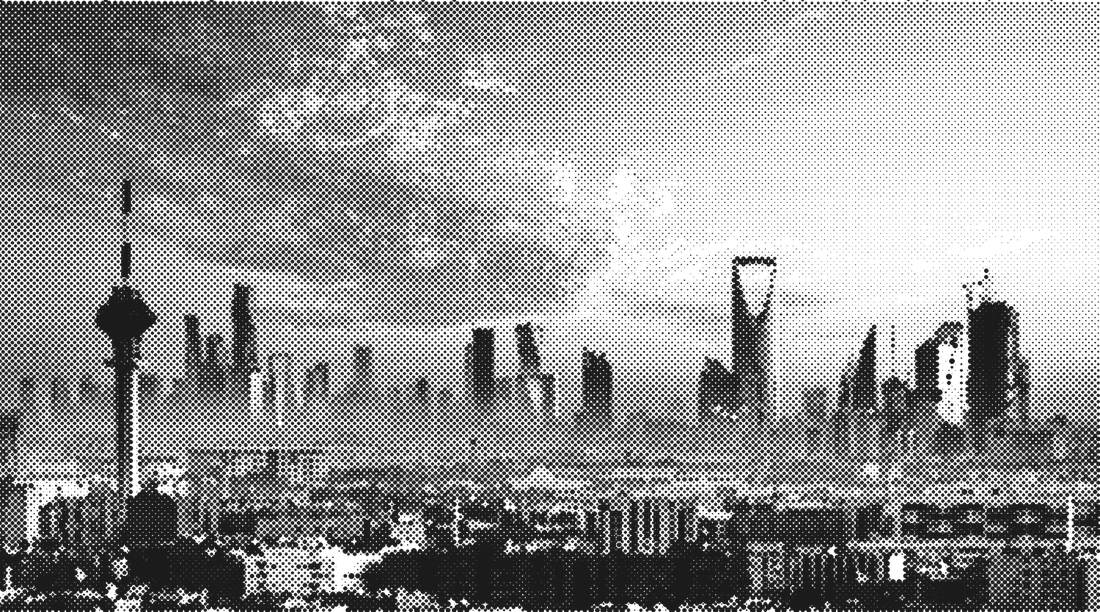
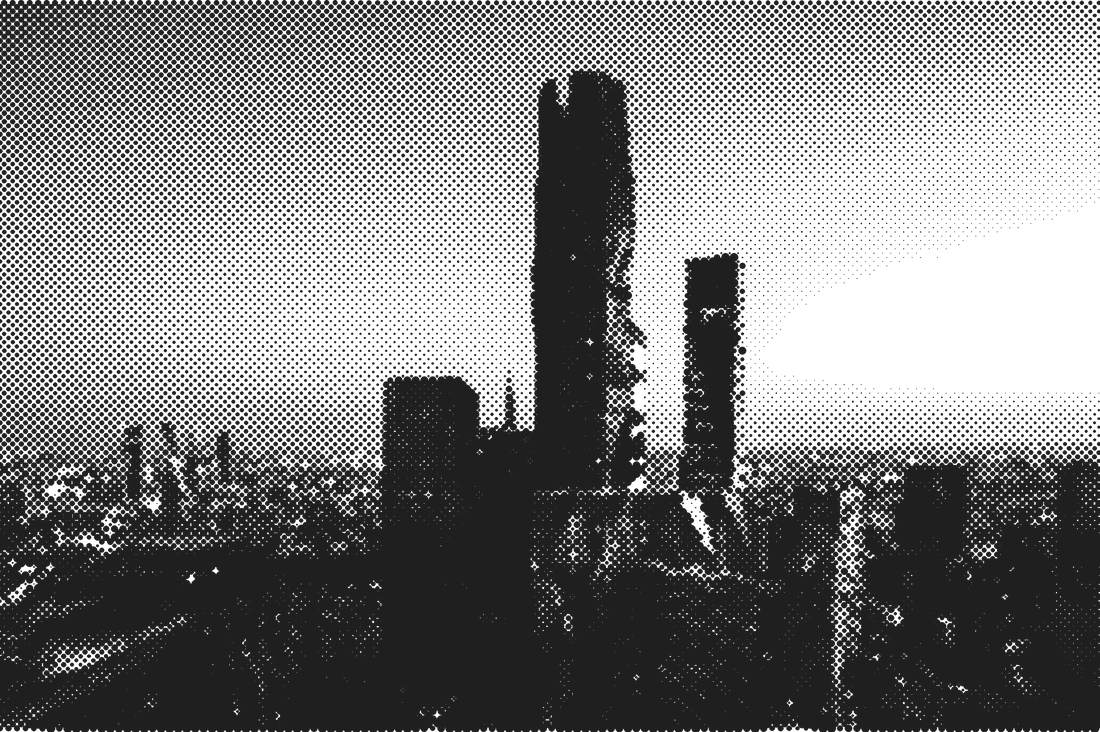
Use KAFD at dusk as the backdrop photo
Claude-Session: https://claude.ai/code/session_01EFXW9L7GshA4peQWCTAUWp

diff --git a/gazette.css b/gazette.css
@@ -354,11 +354,11 @@ p{margin:0 0 .85em;hyphens:auto;text-align:justify}
 
 /* ---------- Riyadh edition: photo backdrop, Arabic masthead ---------- */
 :root{--ar-title:"Aref Ruqaa","Amiri","Noto Naskh Arabic",serif;--ar:"Amiri","Noto Naskh Arabic","Geeza Pro",serif}
-body{background:#2a2621 url("riyadh-photo.webp") center top / cover no-repeat fixed}
+body{background:#1d1820 url("riyadh-photo.webp") center top / cover no-repeat fixed}
 body::before{content:"";position:fixed;inset:0;z-index:-1;background:
   radial-gradient(rgba(0,0,0,.28) 1px,transparent 1.4px) 0 0/4px 4px,
   linear-gradient(180deg,rgba(18,13,20,0) 0%,rgba(18,13,20,.15) 45%,rgba(18,13,20,.75) 100%);pointer-events:none}
-@media (max-width:900px),(hover:none){body{background-attachment:scroll;background-size:auto 100vh;background-position:70% top}.cover{height:min(54vh,460px)}}
+@media (max-width:900px),(hover:none){body{background-attachment:scroll;background-size:auto 100vh;background-position:52% top}.cover{height:min(54vh,460px)}}
 .cover{position:relative;height:min(64vh,620px);min-height:240px;max-width:var(--w);margin:0 auto;display:flex;align-items:flex-end;justify-content:space-between;gap:16px;padding:0 var(--pad) 18px;color:#f6ead2}
 .cover .tag,.cover .cue{position:relative}
 .cover .tag{display:inline-flex;align-items:baseline;flex-wrap:wrap;gap:4px 12px;font-family:var(--type);font-size:12px;letter-spacing:.06em;background:rgba(18,13,20,.55);border:1px solid rgba(246,234,210,.45);padding:6px 10px;backdrop-filter:blur(3px)}
@@ -369,7 +369,7 @@ body::before{content:"";position:fixed;inset:0;z-index:-1;background:
 .sheet{margin-top:0!important}
 @media (min-width:1300px){.sheet{margin-bottom:40px}}
 .masthead{position:relative;isolation:isolate}
-.masthead::before{content:"";position:absolute;inset:-18px -2% -6px;z-index:-1;background:url("riyadh-print.jpg") center 58%/cover no-repeat;opacity:.16;mix-blend-mode:multiply;
+.masthead::before{content:"";position:absolute;inset:-18px -2% -6px;z-index:-1;background:url("riyadh-print.jpg") center 30%/cover no-repeat;opacity:.16;mix-blend-mode:multiply;
   -webkit-mask-image:linear-gradient(180deg,transparent,#000 30%,#000 80%,transparent);mask-image:linear-gradient(180deg,transparent,#000 30%,#000 80%,transparent)}
 .masthead .ar-name{display:block;font-family:var(--ar-title);font-weight:700;font-size:clamp(30px,5.2vw,64px);line-height:1.15;color:var(--red);margin:4px 0 -4px}
 .dateline [lang=ar]{font-family:var(--ar);font-size:15px;line-height:1.2}

diff --git a/ar.html b/ar.html
@@ -17,7 +17,7 @@
 <body>
 <a class="skip" href="#main">انتقل إلى الصفحة الأولى</a>
 <div class="cover">
-  <span role="img" aria-label="صورة: أفق الرياض في ساعة الغروب الذهبية، ويظهر برج المملكة وبرج الرياض للتلفزيون" style="position:absolute;inset:0"></span>
+  <span role="img" aria-label="صورة: أبراج مركز الملك عبدالله المالي في الرياض عند الغسق" style="position:absolute;inset:0"></span>
   <span class="tag">طبعة الرياض<span lang="en" dir="ltr">THE RIYADH EDITION</span></span>
   <a class="cue" href="#main">اقرأ عدد اليوم ↓</a>
 </div>

diff --git a/index.html b/index.html
@@ -17,7 +17,7 @@
 <body>
 <a class="skip" href="#main">Skip to the front page</a>
 <div class="cover">
-  <span role="img" aria-label="Photograph: the Riyadh skyline at golden hour, with Kingdom Centre and the Riyadh TV Tower" style="position:absolute;inset:0"></span>
+  <span role="img" aria-label="Photograph: the towers of the King Abdullah Financial District in Riyadh at dusk" style="position:absolute;inset:0"></span>
   <span class="tag">THE RIYADH EDITION<span lang="ar" dir="rtl">طبعة الرياض</span></span>
   <a class="cue" href="#main">Read today's paper ↓</a>
 </div>

diff --git a/src/build_ar_page.py b/src/build_ar_page.py
@@ -19,8 +19,8 @@ PAIRS = [
      '<meta property="og:description" content="مسيرة مهندسة منتجات من الرياض، في ورق الجرائد وبلغتين.">', 1),
     # cover
     ('Skip to the front page', 'انتقل إلى الصفحة الأولى', 1),
-    ('aria-label="Photograph: the Riyadh skyline at golden hour, with Kingdom Centre and the Riyadh TV Tower"',
-     'aria-label="صورة: أفق الرياض في ساعة الغروب الذهبية، ويظهر برج المملكة وبرج الرياض للتلفزيون"', 1),
+    ('aria-label="Photograph: the towers of the King Abdullah Financial District in Riyadh at dusk"',
+     'aria-label="صورة: أبراج مركز الملك عبدالله المالي في الرياض عند الغسق"', 1),
     ('<span class="tag">THE RIYADH EDITION<span lang="ar" dir="rtl">طبعة الرياض</span></span>', '<span class="tag">طبعة الرياض<span lang="en" dir="ltr">THE RIYADH EDITION</span></span>', 1),
     ("Read today's paper ↓", 'اقرأ عدد اليوم ↓', 1),
     # masthead
